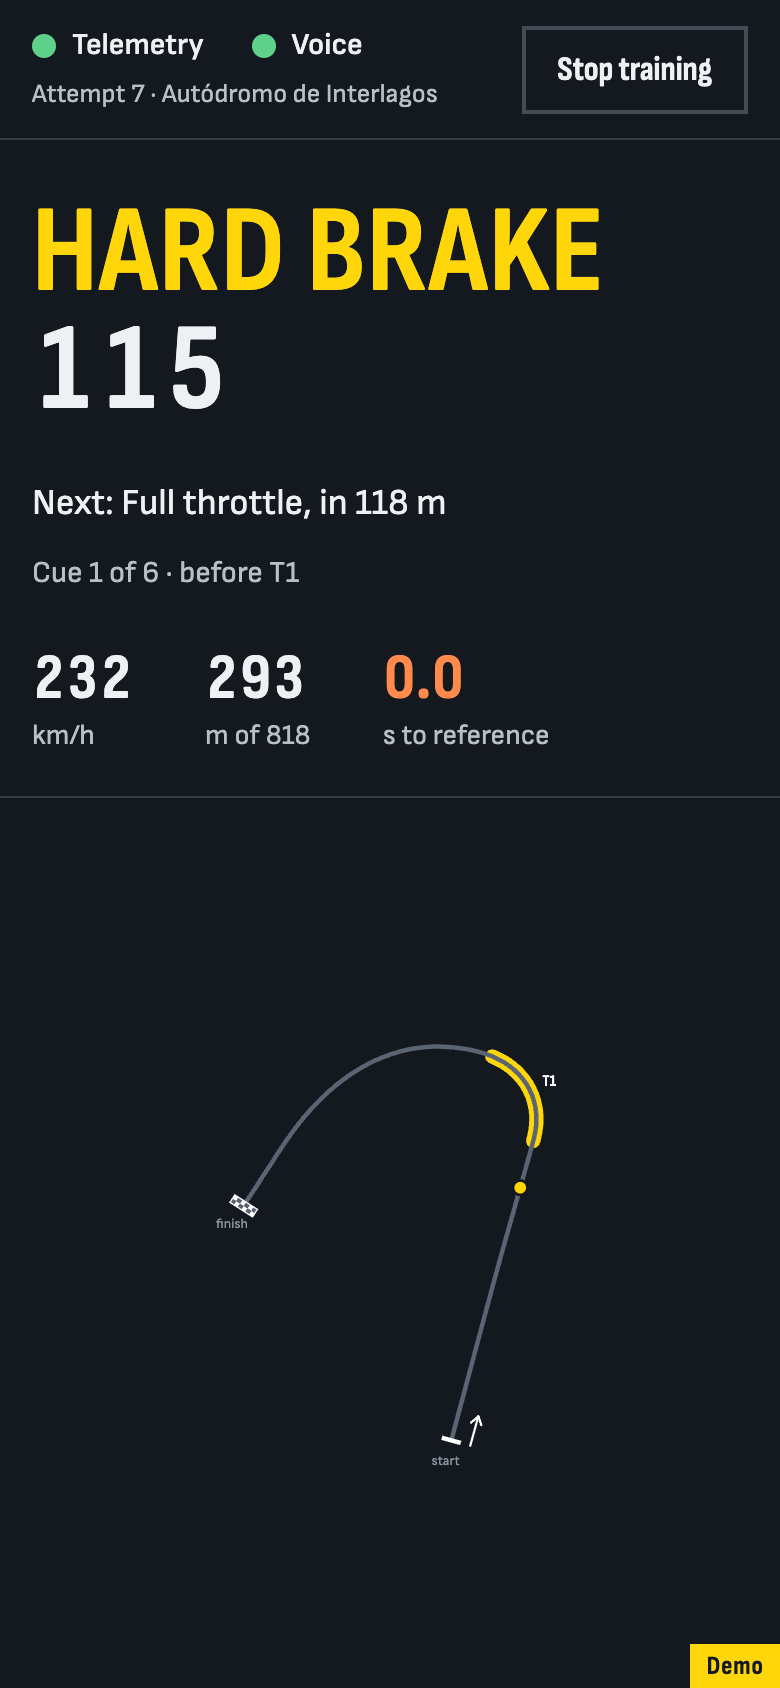
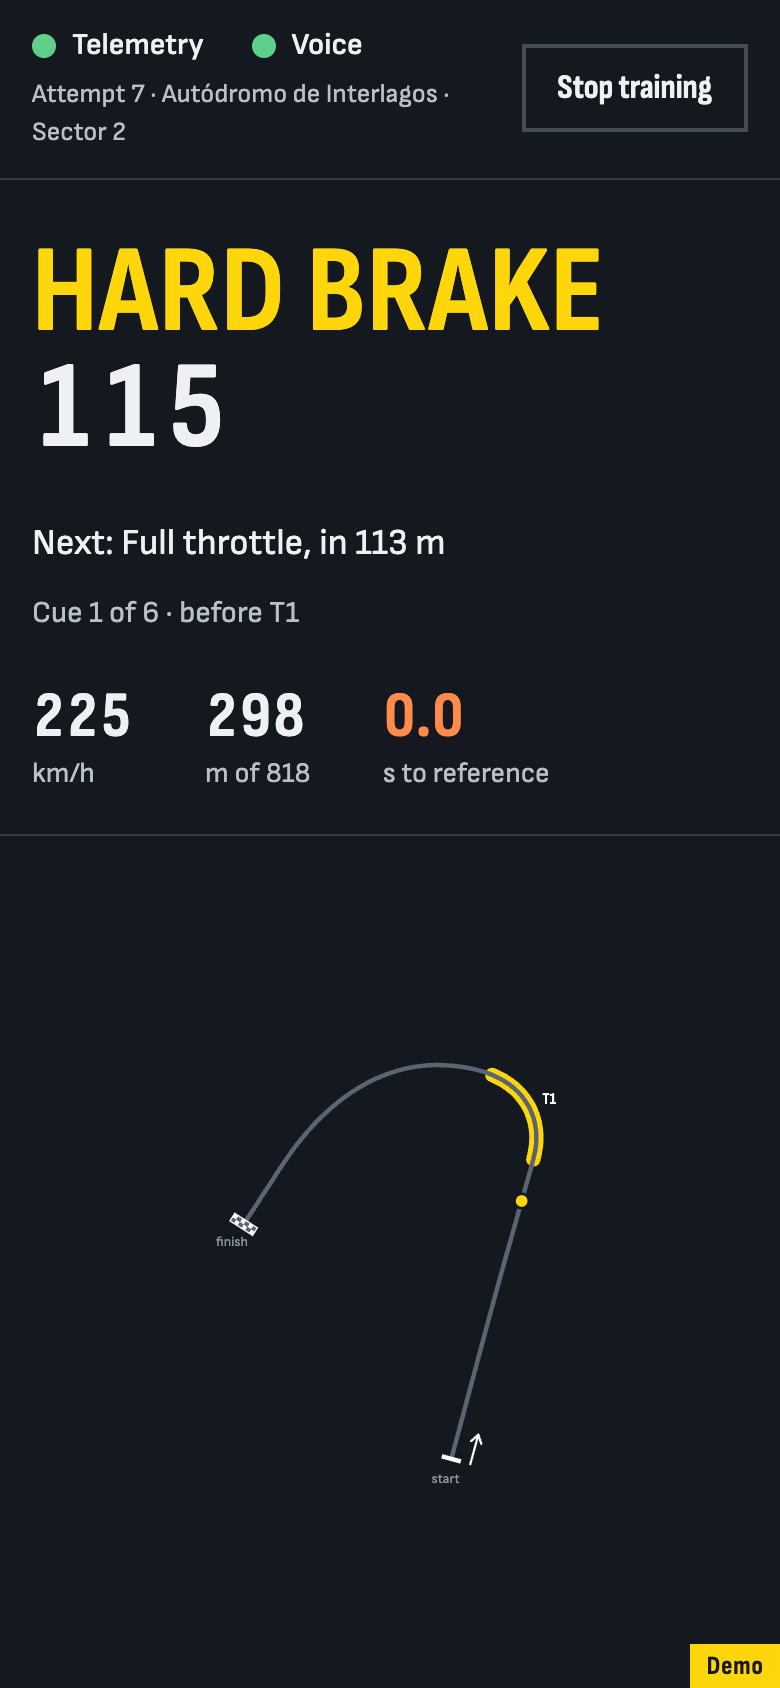
fix: show the one exercises page and current screenshots on the landing

diff --git a/site/index.html b/site/index.html
@@ -39,7 +39,7 @@
       <p class="try-demo"><a data-link="github-demo" href="https://github.com/alex-yurchenko-85/gt7-tutor#try-the-demo-without-a-console">Try it without a console</a>: the demo replays recorded attempts on your computer, with the voice.</p>
     </div>
     <figure class="phone">
-      <img src="assets/screenshots/drive-phone.webp" fetchpriority="high" alt="The Drive screen on a phone during a demo attempt: the cue Hard brake 115, the next cue Full throttle in 118 m, cue 1 of 6 before turn 1, the speed, the distance, the gap to the reference, and the map." width="390" height="844">
+      <img src="assets/screenshots/drive-phone.webp" fetchpriority="high" alt="The Drive screen on a phone during a demo attempt: the cue Hard brake 115, the next cue Full throttle in 113 m, cue 1 of 6 before turn 1, the speed, the distance, the gap to the reference, and the map." width="390" height="844">
     </figure>
   </div>
   <section class="roadbook wrap" aria-labelledby="roadbook-title">
@@ -85,14 +85,14 @@
           <h3><span class="step-number">2</span>Drive with the cues</h3>
           <p>Select Drive, then drive the exercise in the game. GT7 Tutor finds the start and the finish by itself, and your time is the time that the game gives. The screen shows the next action, your speed and the gap to the reference. The voice names the action: “Hard brake. One fifteen”, “Full throttle”, or “Closer to apex” when you run wide before an apex. You choose the help: the voice on a computer or a phone, no voice, or single cues muted.</p>
         </div>
-        <img src="assets/screenshots/drive-desktop.webp" alt="The Drive screen on a computer during a demo attempt: the cue Hard brake 115, the next cue Full throttle in 117 m, cue 1 of 6 before turn 1, the speed, the distance of 294 m of 818, the gap to the reference, and the position on the reference line." width="1440" height="900" loading="lazy">
+        <img src="assets/screenshots/drive-desktop.webp" alt="The Drive screen on a computer during a demo attempt: the cue Hard brake 115, the next cue Full throttle in 119 m, cue 1 of 6 before turn 1, the speed, the distance of 292 m of 818, the gap to the reference, and the position on the reference line." width="1440" height="900" loading="lazy">
       </li>
       <li>
         <div class="step-text">
           <h3><span class="step-number">3</span>Review</h3>
           <p>Compare each attempt with the reference on a map and in linked speed, pedal and side-distance charts. The review groups the differences by turn and shows the time lost in each turn. A difference is not always a mistake: the reference is one recorded drive, not the best possible line.</p>
         </div>
-        <img src="assets/screenshots/review-desktop.webp" alt="The review of a demo attempt: the exercise header with your best time and the tabs Cues, References and Attempts, the map with the reference line in blue and the attempt in orange, the yellow Drive button, and the differences by turn with 0.36 s lost in turn 1." width="1440" height="900" loading="lazy">
+        <img src="assets/screenshots/review-desktop.webp" alt="The review of a demo attempt: the exercise header with your best time, the target and the reference, the tabs Cues, References and Attempts, the map with the reference line in blue and the attempt in orange, the yellow Drive button, and the differences by turn with 1.00 s lost in turn 1." width="1440" height="900" loading="lazy">
       </li>
     </ol>
   </section>
@@ -105,22 +105,22 @@
           <h3>Tune each cue</h3>
           <p>The cue list shows every cue with its distance, phrase and target speed, and each turn with its apex. Hear a cue, mute it, or move it up to 1 s earlier. Places where the same difference repeats in your recent attempts show in yellow, for example “Slower in the corner in 7 of 7 attempts”.</p>
         </div>
-        <img src="assets/screenshots/cues-desktop.webp" alt="The cue list of the reference: cue 1 Hard brake One fifteen at 291 m with 115 km/h, the recurring differences in yellow, the buttons Hear and Mute and the Timing slider, turn 1 with its apex, and the map with numbered cues." width="1440" height="900" loading="lazy">
+        <img src="assets/screenshots/cues-desktop.webp" alt="The cue list of the reference, under the exercise header with your best time, the target and the reference: cue 1 Hard brake One fifteen at 291 m with 115 km/h and its two recurring differences, the buttons Hear and Mute and the Timing slider, turn 1 with its apex and where to brake, and the map with numbered cues." width="1440" height="900" loading="lazy">
       </li>
       <li>
         <div class="step-text">
           <h3>Get one focus after each attempt</h3>
           <p>The summary shows the time from the game, the gap to your best time and the largest difference. The voice says one focus for the next attempt, such as “Turn one. Carry more speed.”</p>
         </div>
-        <img src="assets/screenshots/summary-desktop.webp" alt="The summary after an attempt of recorded data: the time 0:18.824 from the game, the focus for the next attempt Turn one. Carry more speed., the gap to your best and the largest difference, Braked 37 m later at 291 m." width="1440" height="900" loading="lazy">
+        <img src="assets/screenshots/summary-desktop.webp" alt="The summary after an attempt of recorded data: the time 0:18.824 from the game, the focus for the next attempt Turn one. Braking too early before the turn., the gap to your best of 1.75 s and the largest difference, Braked 37 m later at 291 m." width="1440" height="900" loading="lazy">
       </li>
       <li>
         <div class="step-text">
           <h3>Pick exercises from the catalogue</h3>
-          <p>Find an exercise by name, track, car or code. The catalogue lists 100 licence tests, 58 Circuit Experience sections and 20 Brand Central exercises from public sources. For an activity that it does not list, such as a Time Trial, create your own exercise.</p>
+          <p>Your exercises and the whole catalogue are on one page. Find an exercise by name, track, car or code. The catalogue lists 100 licence tests, the Circuit Experience of 58 tracks and 20 Brand Central exercises from public sources. A catalogue entry becomes your exercise when you record its reference. For an activity that the catalogue does not list, such as a Time Trial, create your own exercise.</p>
           <p class="small">GT7 Tutor can follow an exercise only when the game times its demonstration and your run from the start.</p>
         </div>
-        <img src="assets/screenshots/add-exercise-desktop.webp" alt="Add an exercise, filtered to Circuit Experience, the Americas collection and Autódromo de Interlagos. The exercise is already added. Below the list is the form for your own exercise." width="1440" height="900" loading="lazy">
+        <img src="assets/screenshots/exercises-desktop.webp" alt="The Exercises page: the Continue card of Autódromo de Interlagos · Sector 2 with your best time 0:17.071, 0.67 s to the target 0:16.400 and the buttons Drive and Attempts, the search, the family buttons and All tracks, In progress with one exercise, and the catalogue with the group National B open. B-1 shows its target 0:20.800 and the button Record the reference." width="1440" height="900" loading="lazy">
       </li>
       <li>
         <div class="step-text">
